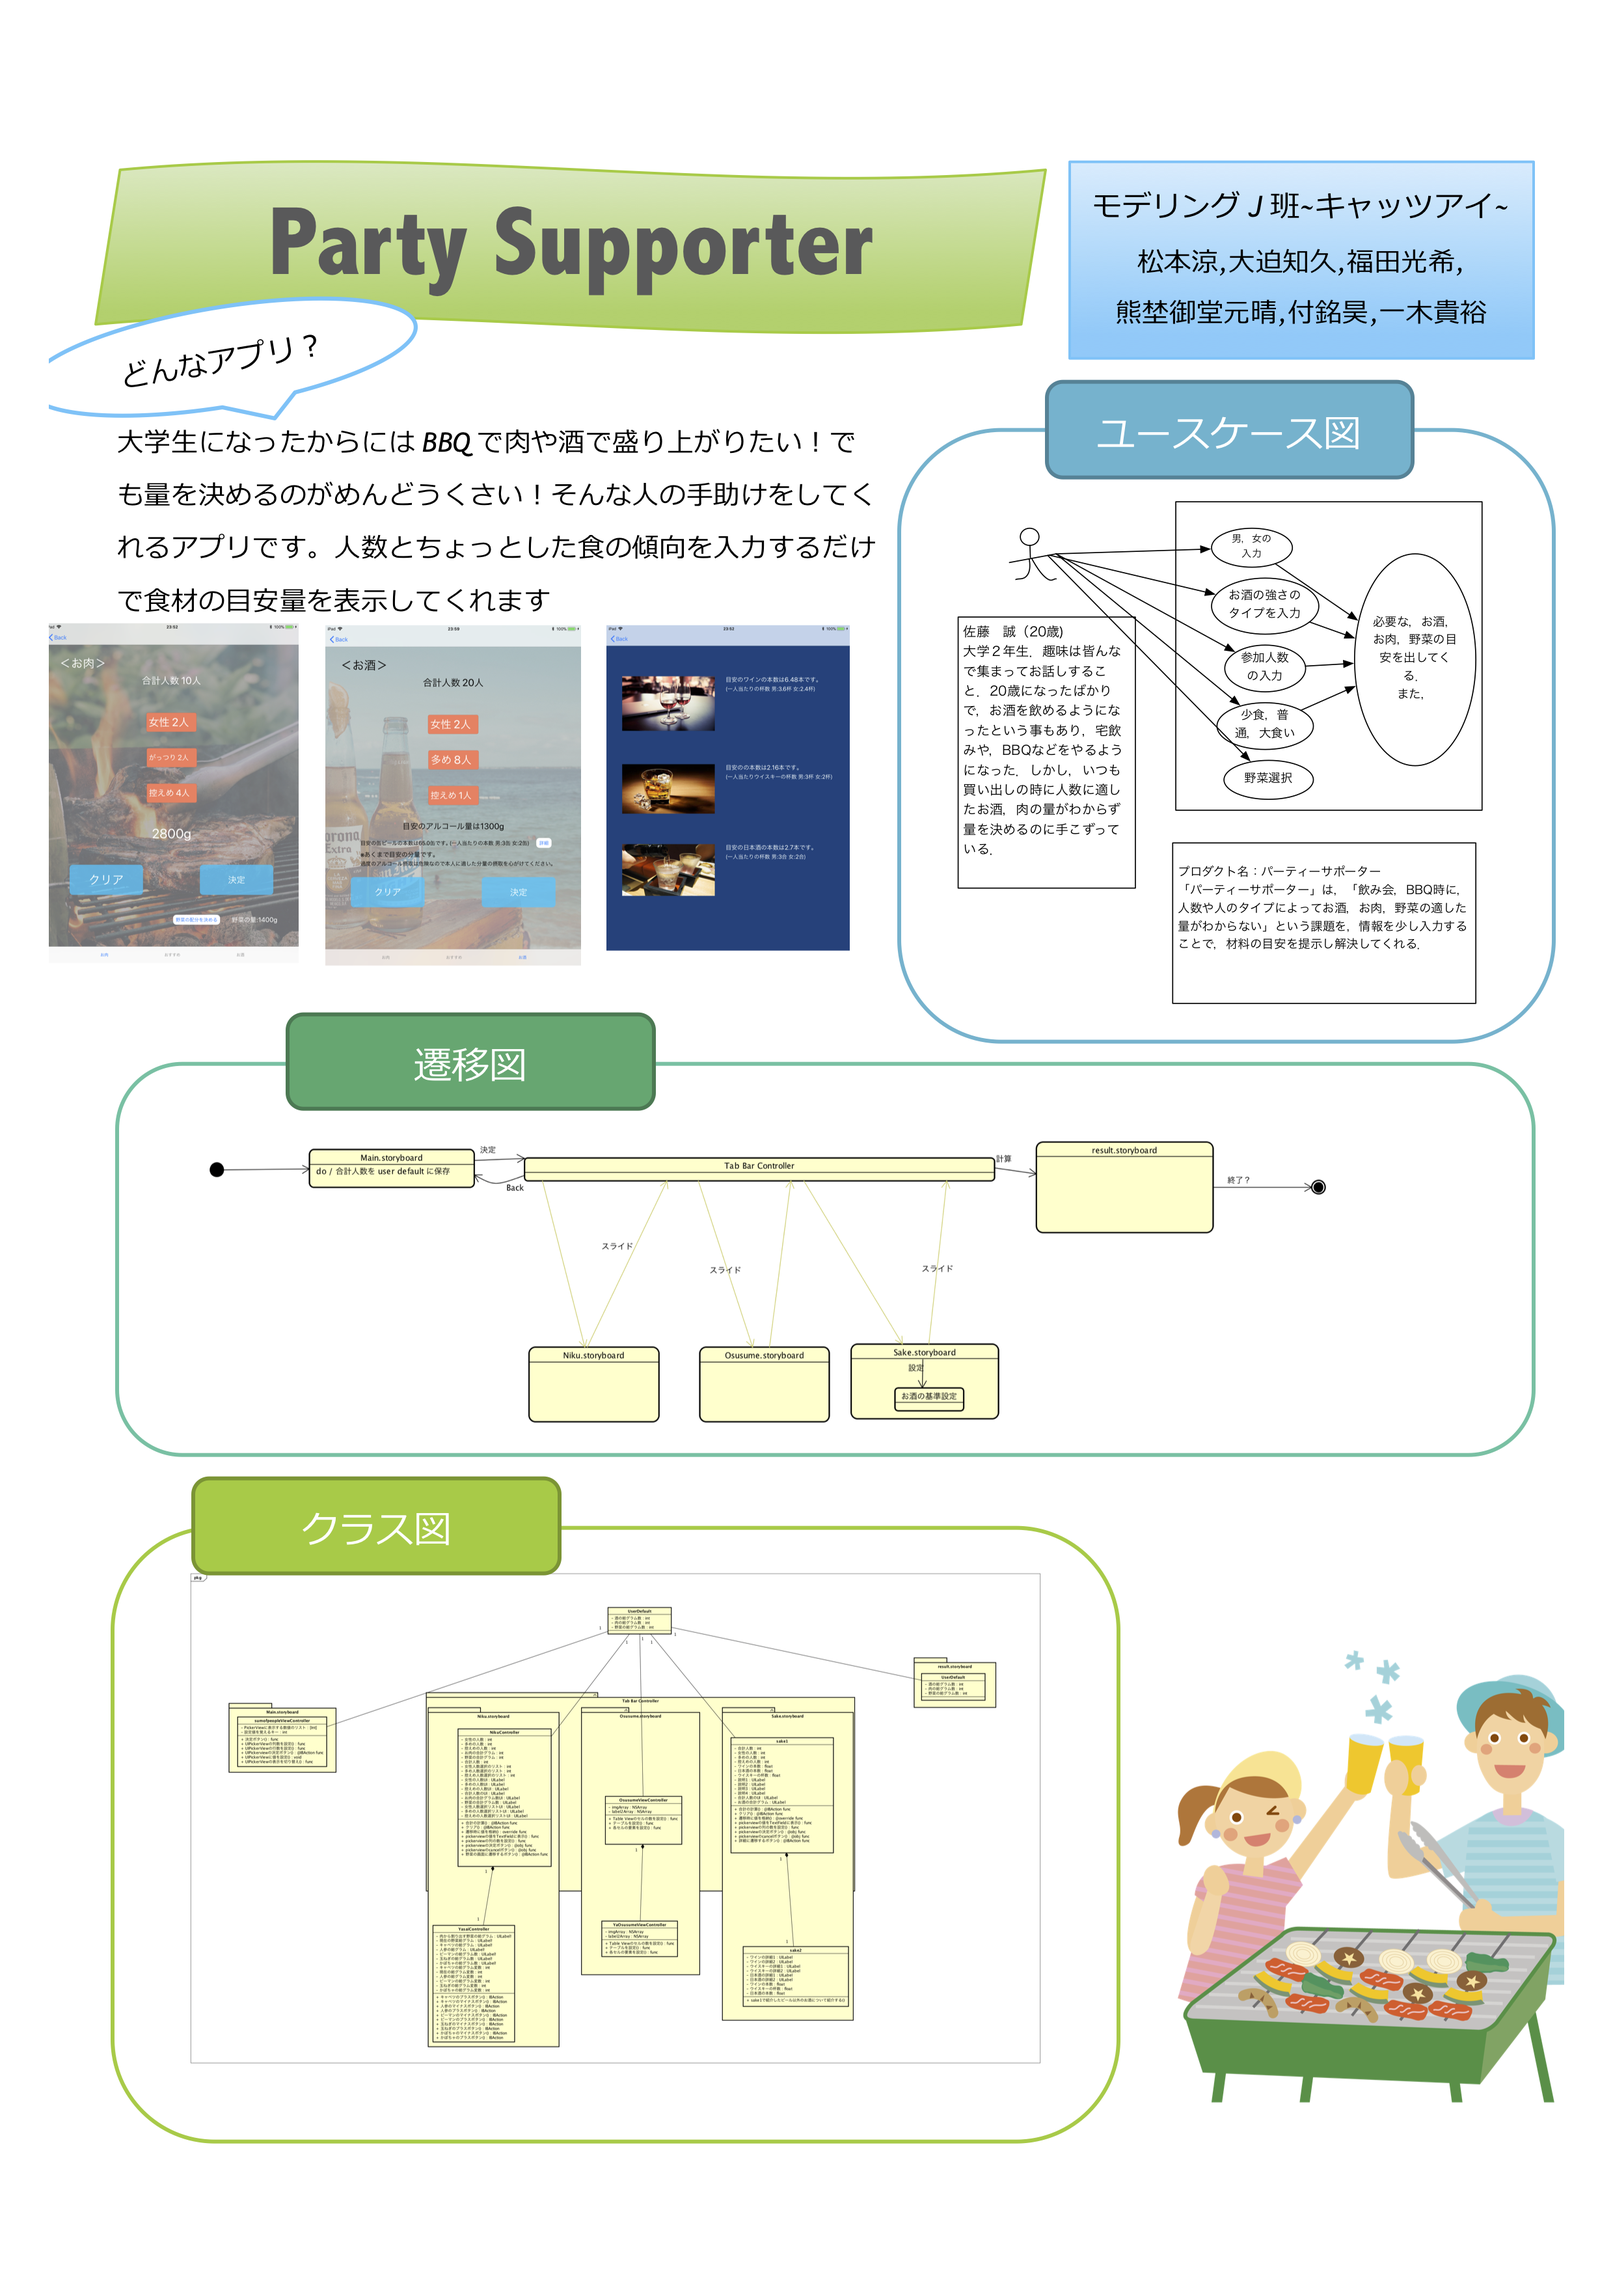
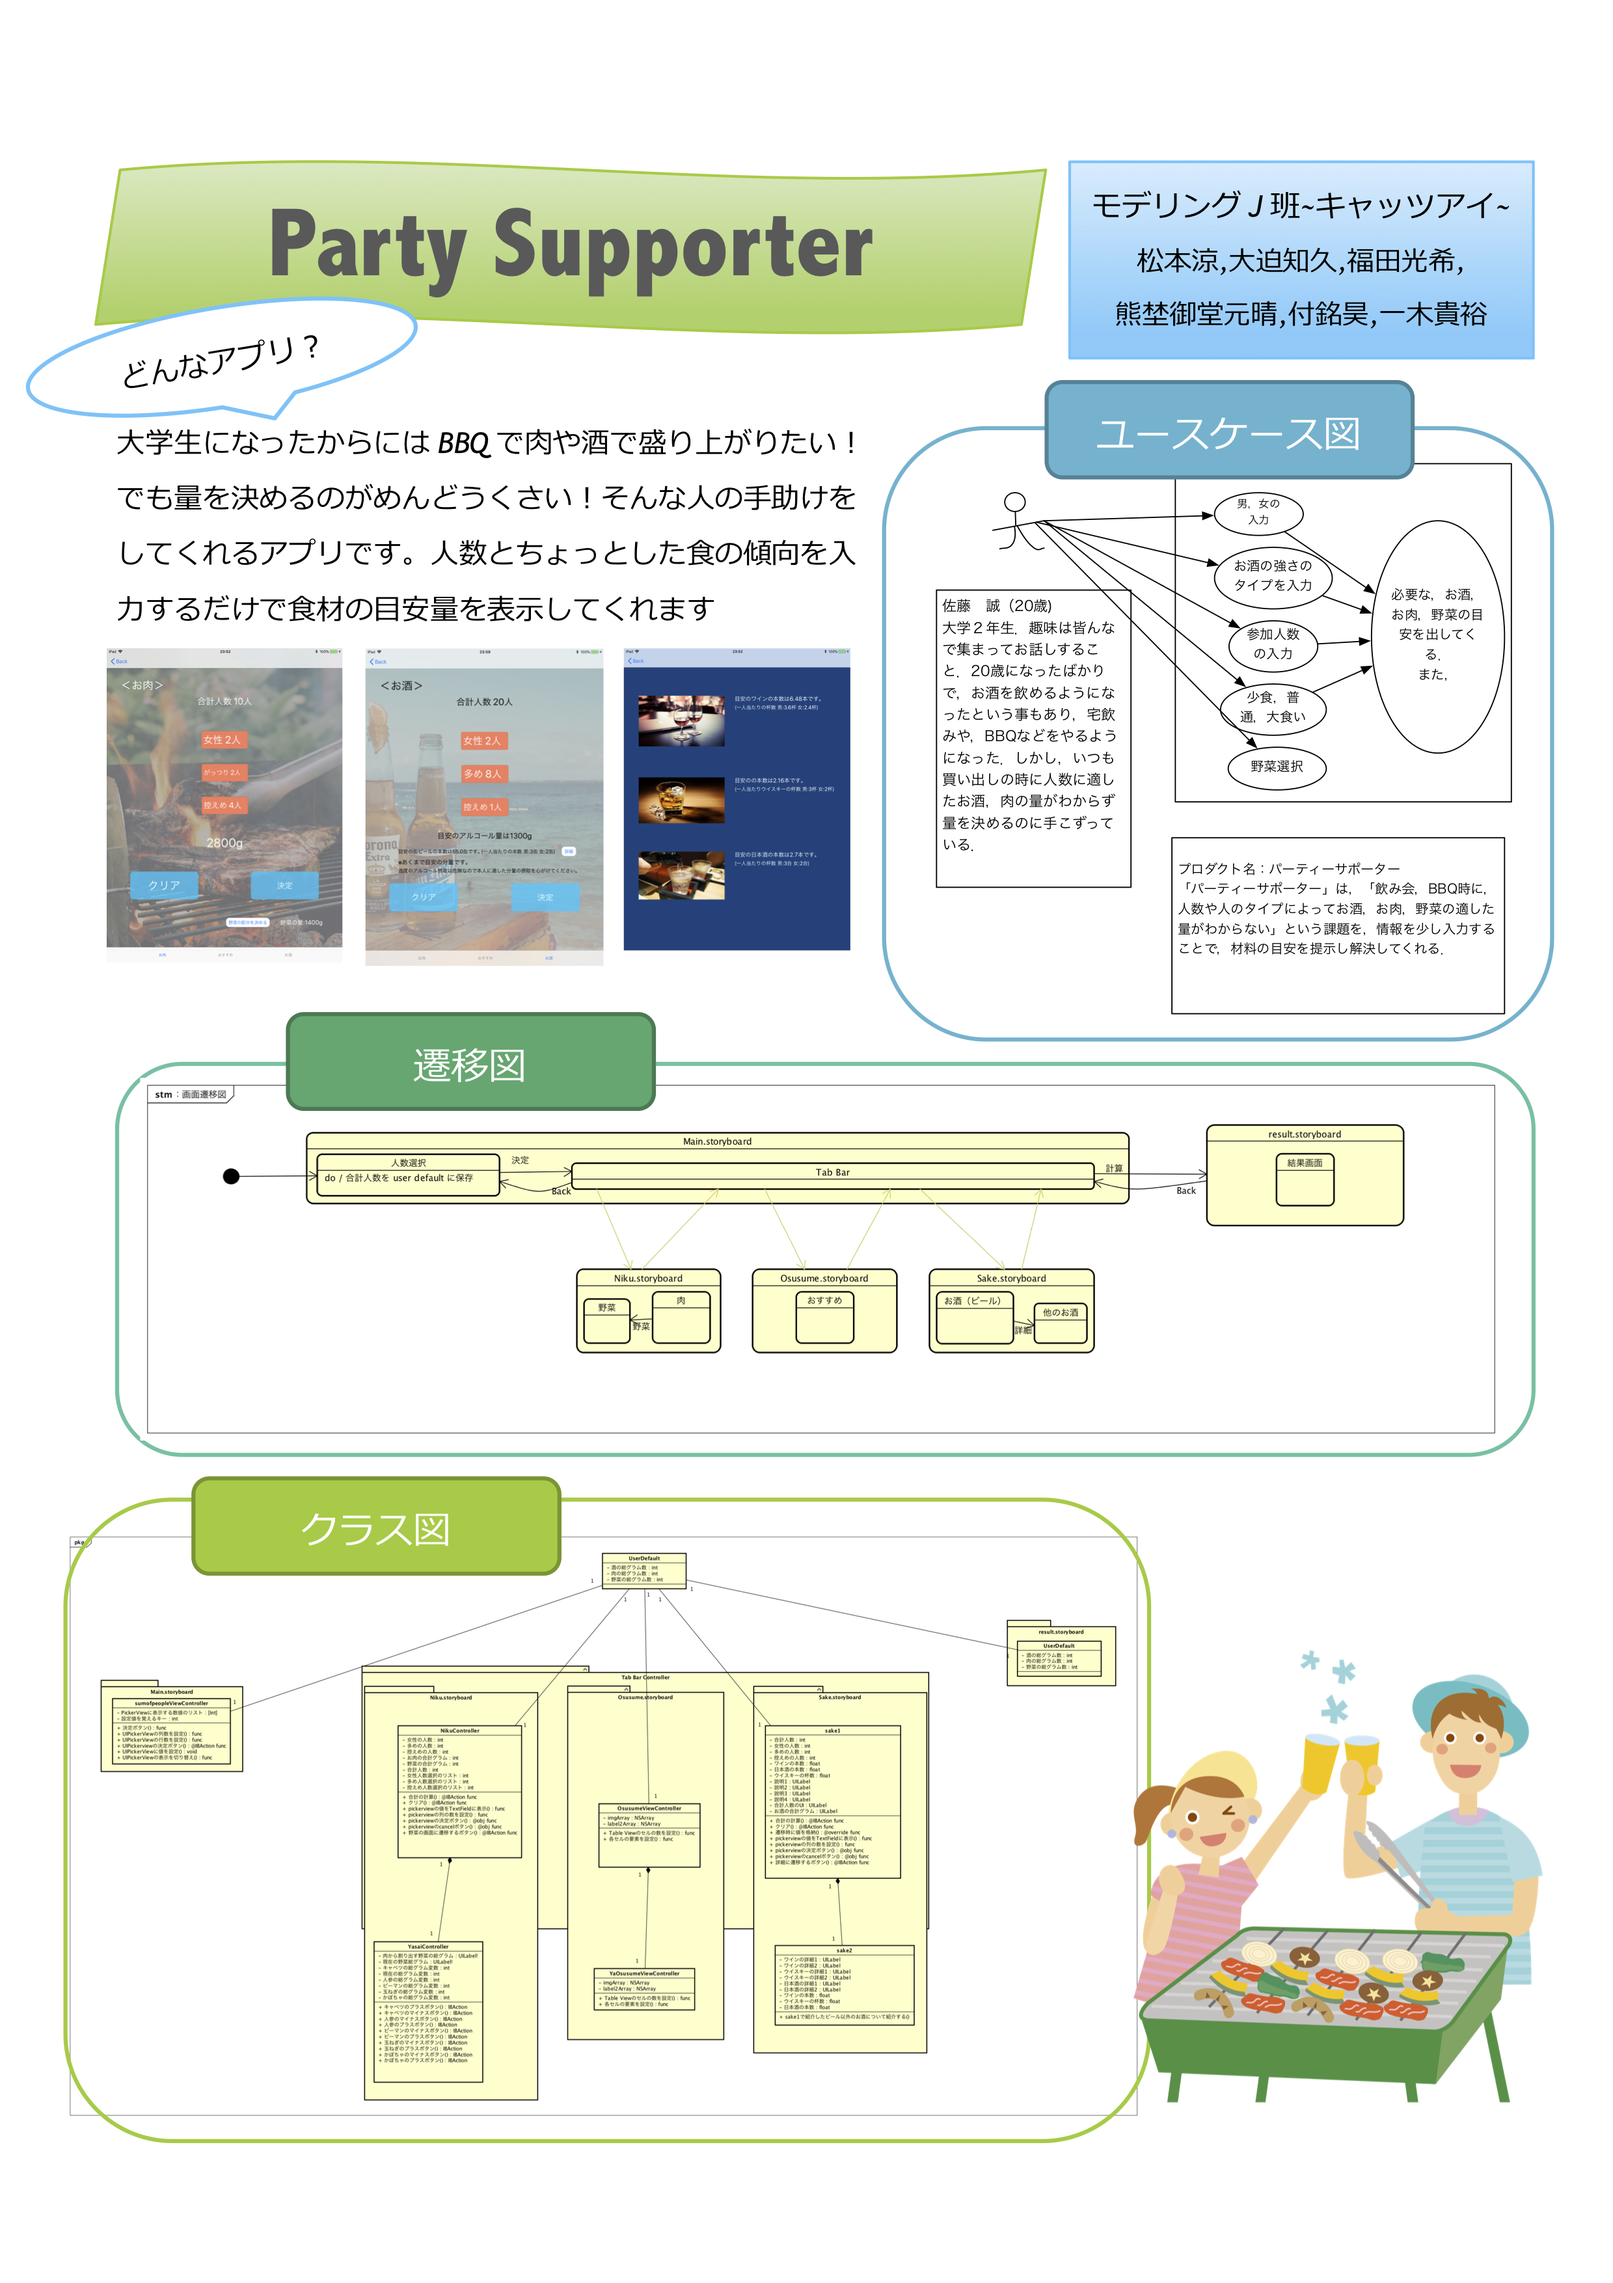
やっぱり勿体無いので、Readme.md のポスターを「完全版」に差し替え

diff --git a/README.md b/README.md
@@ -4,8 +4,6 @@
 
 # ポスター
 
-![本番で展示したポスター](https://github.com/M-82s7503/party_supporter/blob/develop/poster/poster.png)
+![本番で展示したポスター（少し修正）](https://github.com/M-82s7503/party_supporter/blob/master/poster/poster.png)
 
 
-
-ちなみに、pster/poster.pdf は、画像の差し替え忘れ、その他諸々を修正した完全版になってます。
